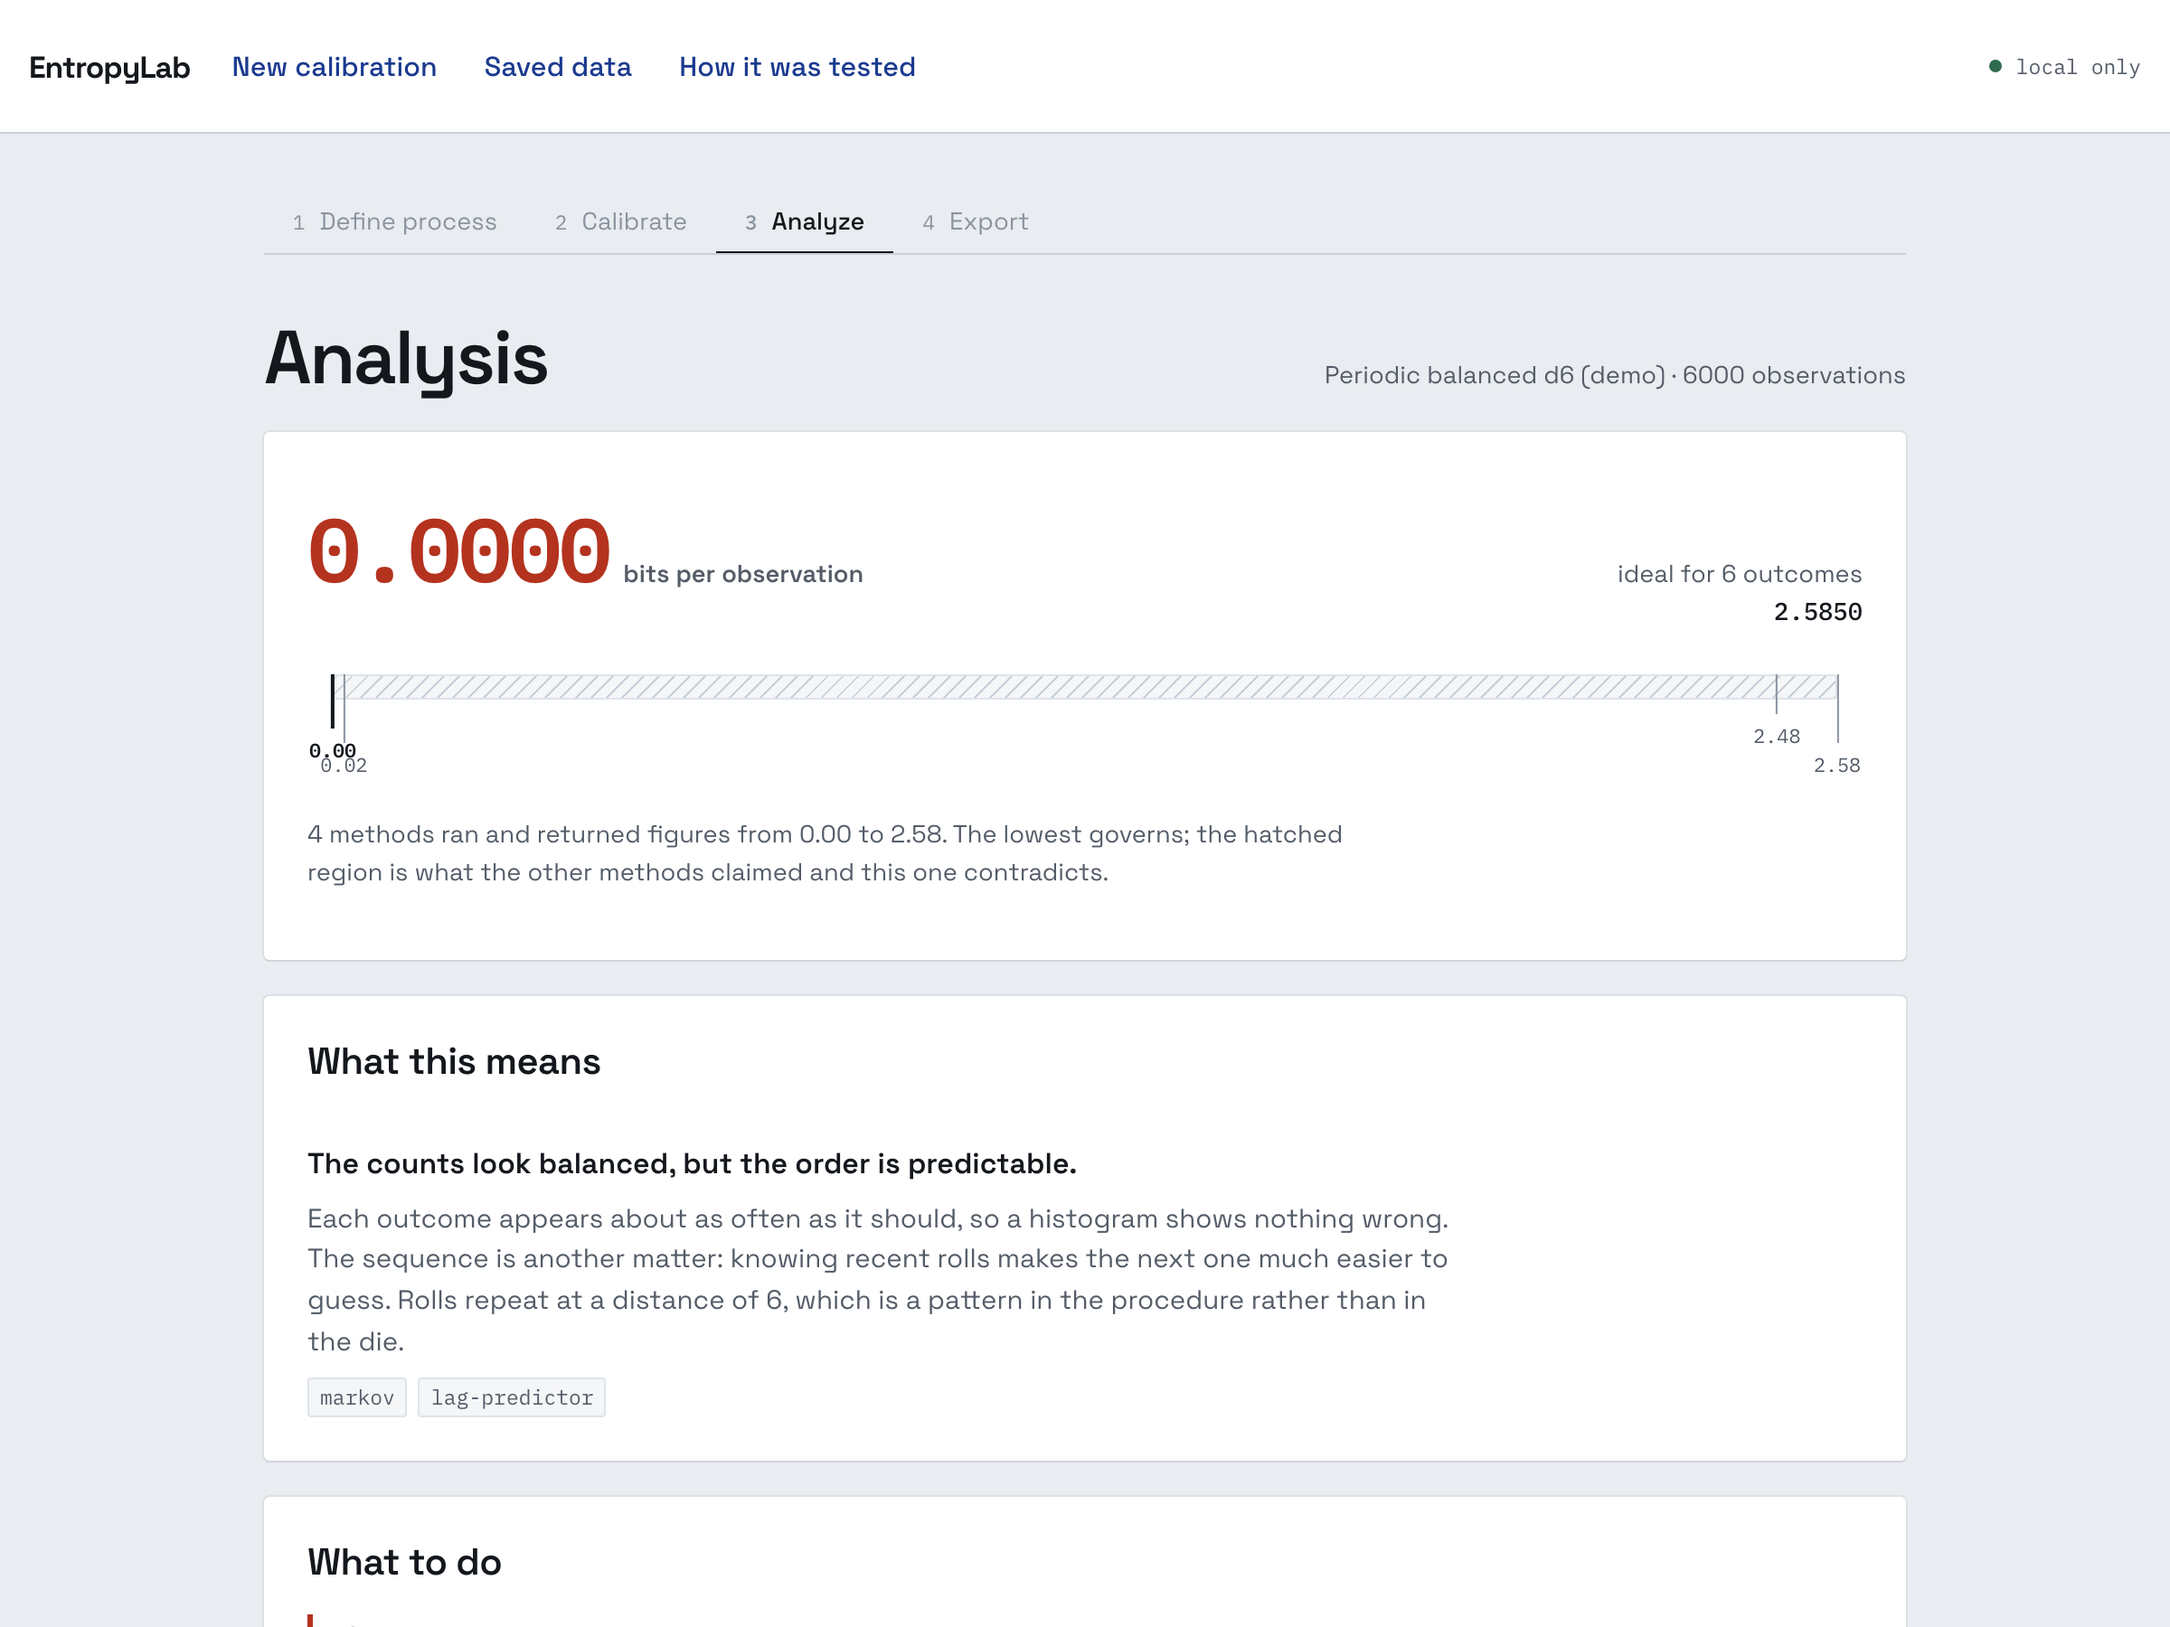
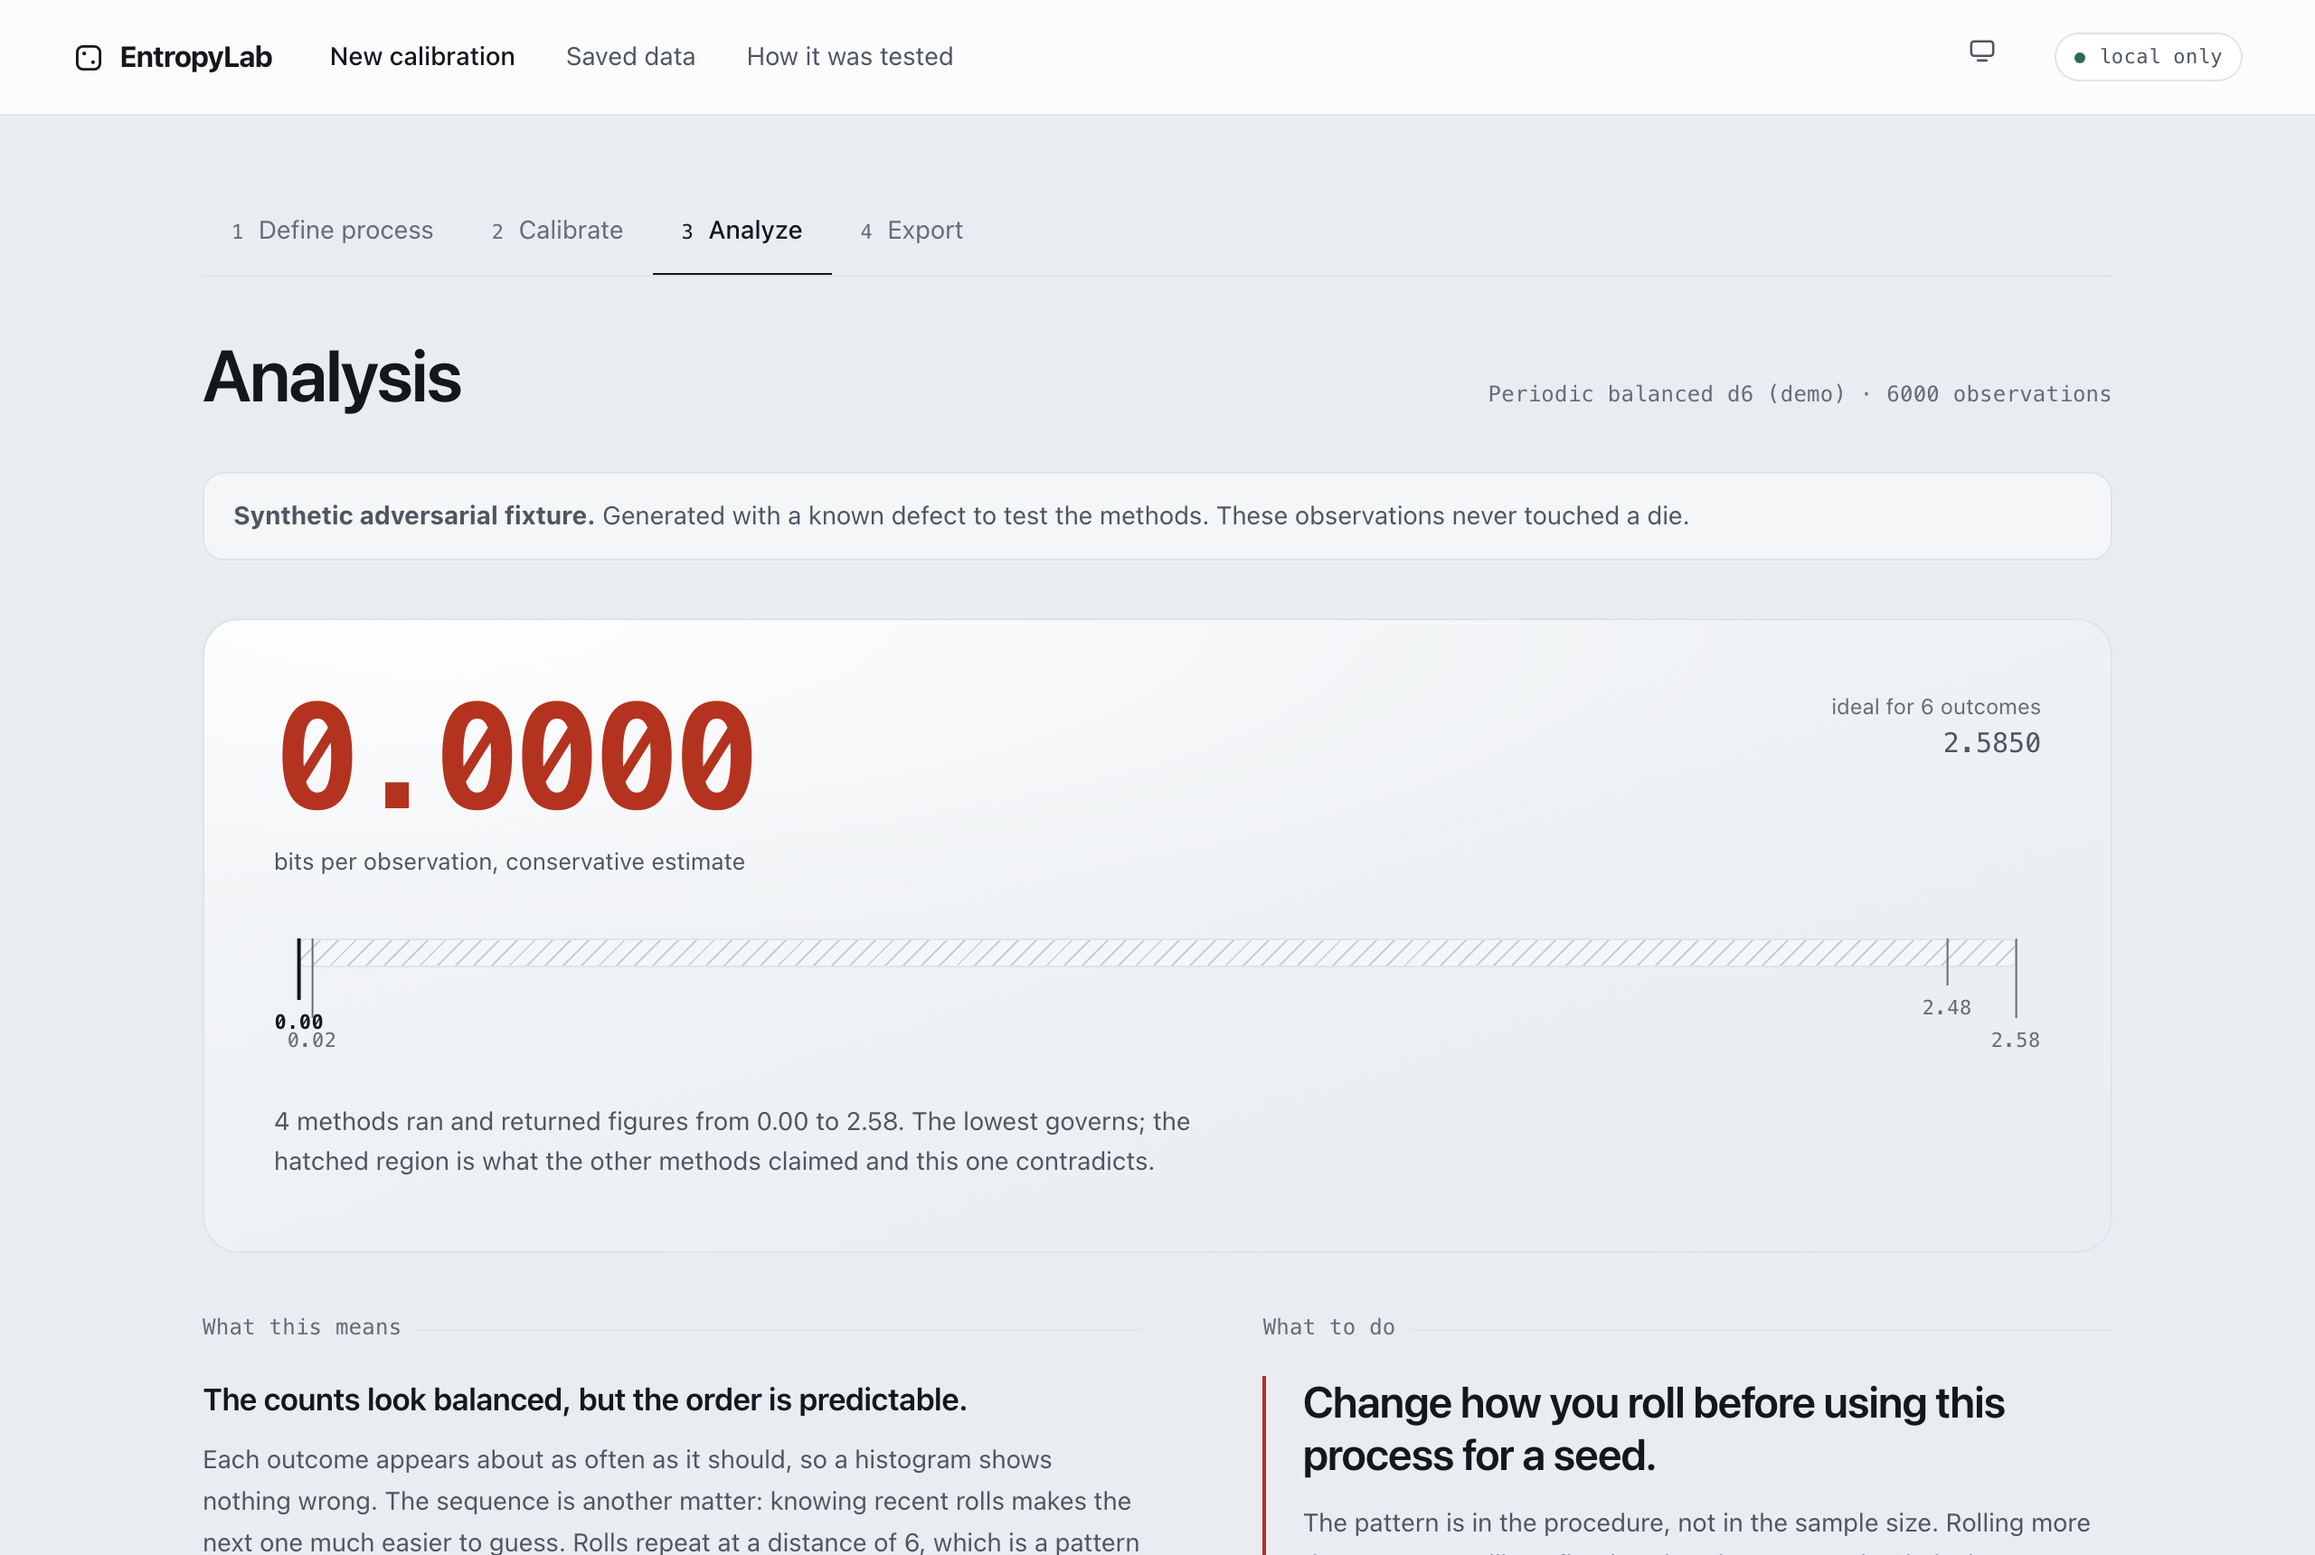
build: move deployment to Cloudflare
Serves the same static build from Cloudflare Workers assets with no
Worker script, because there is no backend and adding one would mean
calibration data could leave the device. GitHub Pages was the earlier
host; it was chosen for needing no credentials rather than for being
the better option.

The off-origin guard moves with the workflow, so a deploy still fails
if the build picks up an external reference.

Verified against the live site: the page loads, the periodic dataset
reads 0.0000, no request leaves the origin, and with the network
disabled a reload still runs a full analysis and returns 0.4765 on the
sticky dataset.

README screenshots regenerated from the rebuilt interface.

diff --git a/README.md b/README.md
@@ -18,7 +18,7 @@ EntropyLab profiles the entropy-generation **process**. It does not:
 
 ## Demo
 
-**[winsznx.github.io/entropylab](https://winsznx.github.io/entropylab/)**
+**[entropylab.timjosh507.workers.dev](https://entropylab.timjosh507.workers.dev/)**
 
 Open it, pick the periodic balanced dataset, and the argument is on screen in about ten seconds.
 Then turn your network off and reload: it keeps working, because the analysis was never running
@@ -71,7 +71,7 @@ yet.
 | Local persistence and report export          | Implemented                                                                 |
 | Integrator API and example                   | Implemented                                                                 |
 | Privacy audit                                | Implemented                                                                 |
-| Static deployment                            | Live                                                                        |
+| Static deployment                            | Live on Cloudflare                                                          |
 | Physical dice import pipeline                | Implemented, awaiting real rolls                                            |
 | Real physical dice dataset                   | Not collected                                                               |
 | Demo video                                   | Not recorded                                                                |

diff --git a/docs/PRIVACY.md b/docs/PRIVACY.md
@@ -31,6 +31,9 @@ rather than asserted; the browser checks are in
 | Downloads are user-initiated      | Browser test counting download events across the export screen                                                        | Zero until the button is pressed                                                         |
 | No field asks for secret material | Browser test reading every input placeholder, label and id on all seven screens                                       | No field mentions a mnemonic, seed phrase, private key, xprv or passphrase               |
 
+Served as static files from Cloudflare, with no Worker script: there is no
+backend to send anything to.
+
 Two external links exist, both on the "How it was tested" screen and both
 labelled as reaching the internet: the methodology document and the test
 campaign, on GitHub. They are followed only if you click them.
